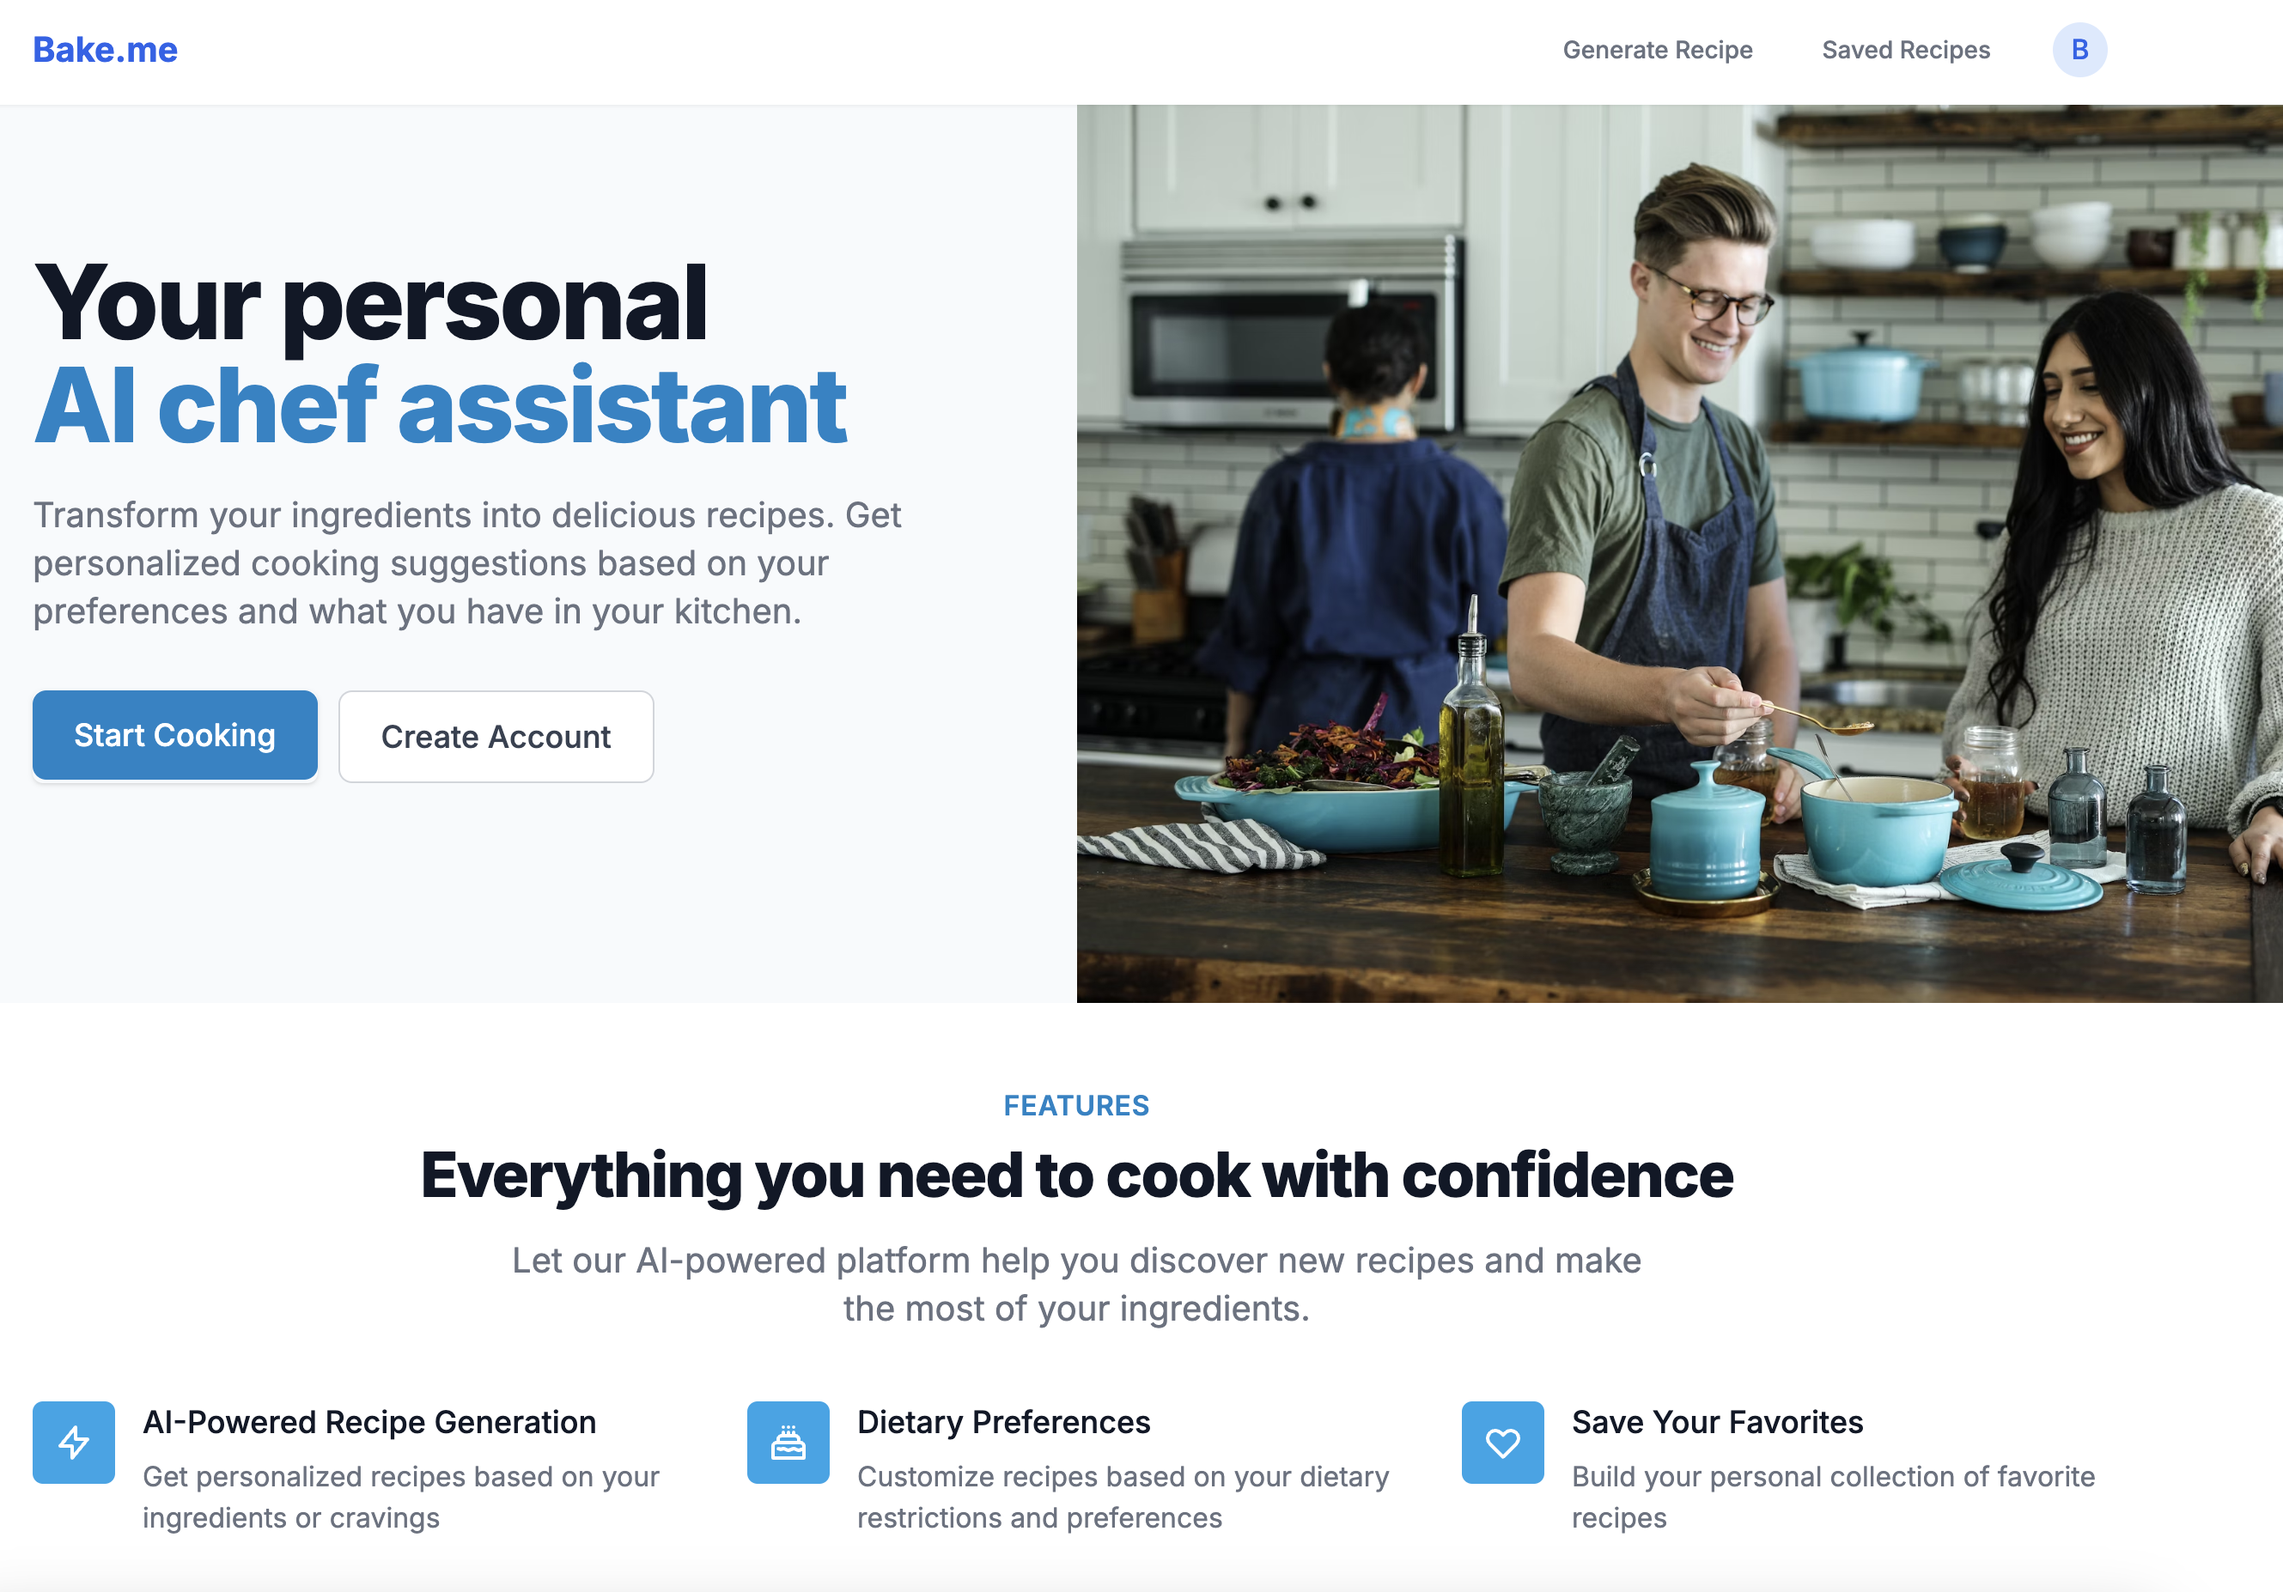
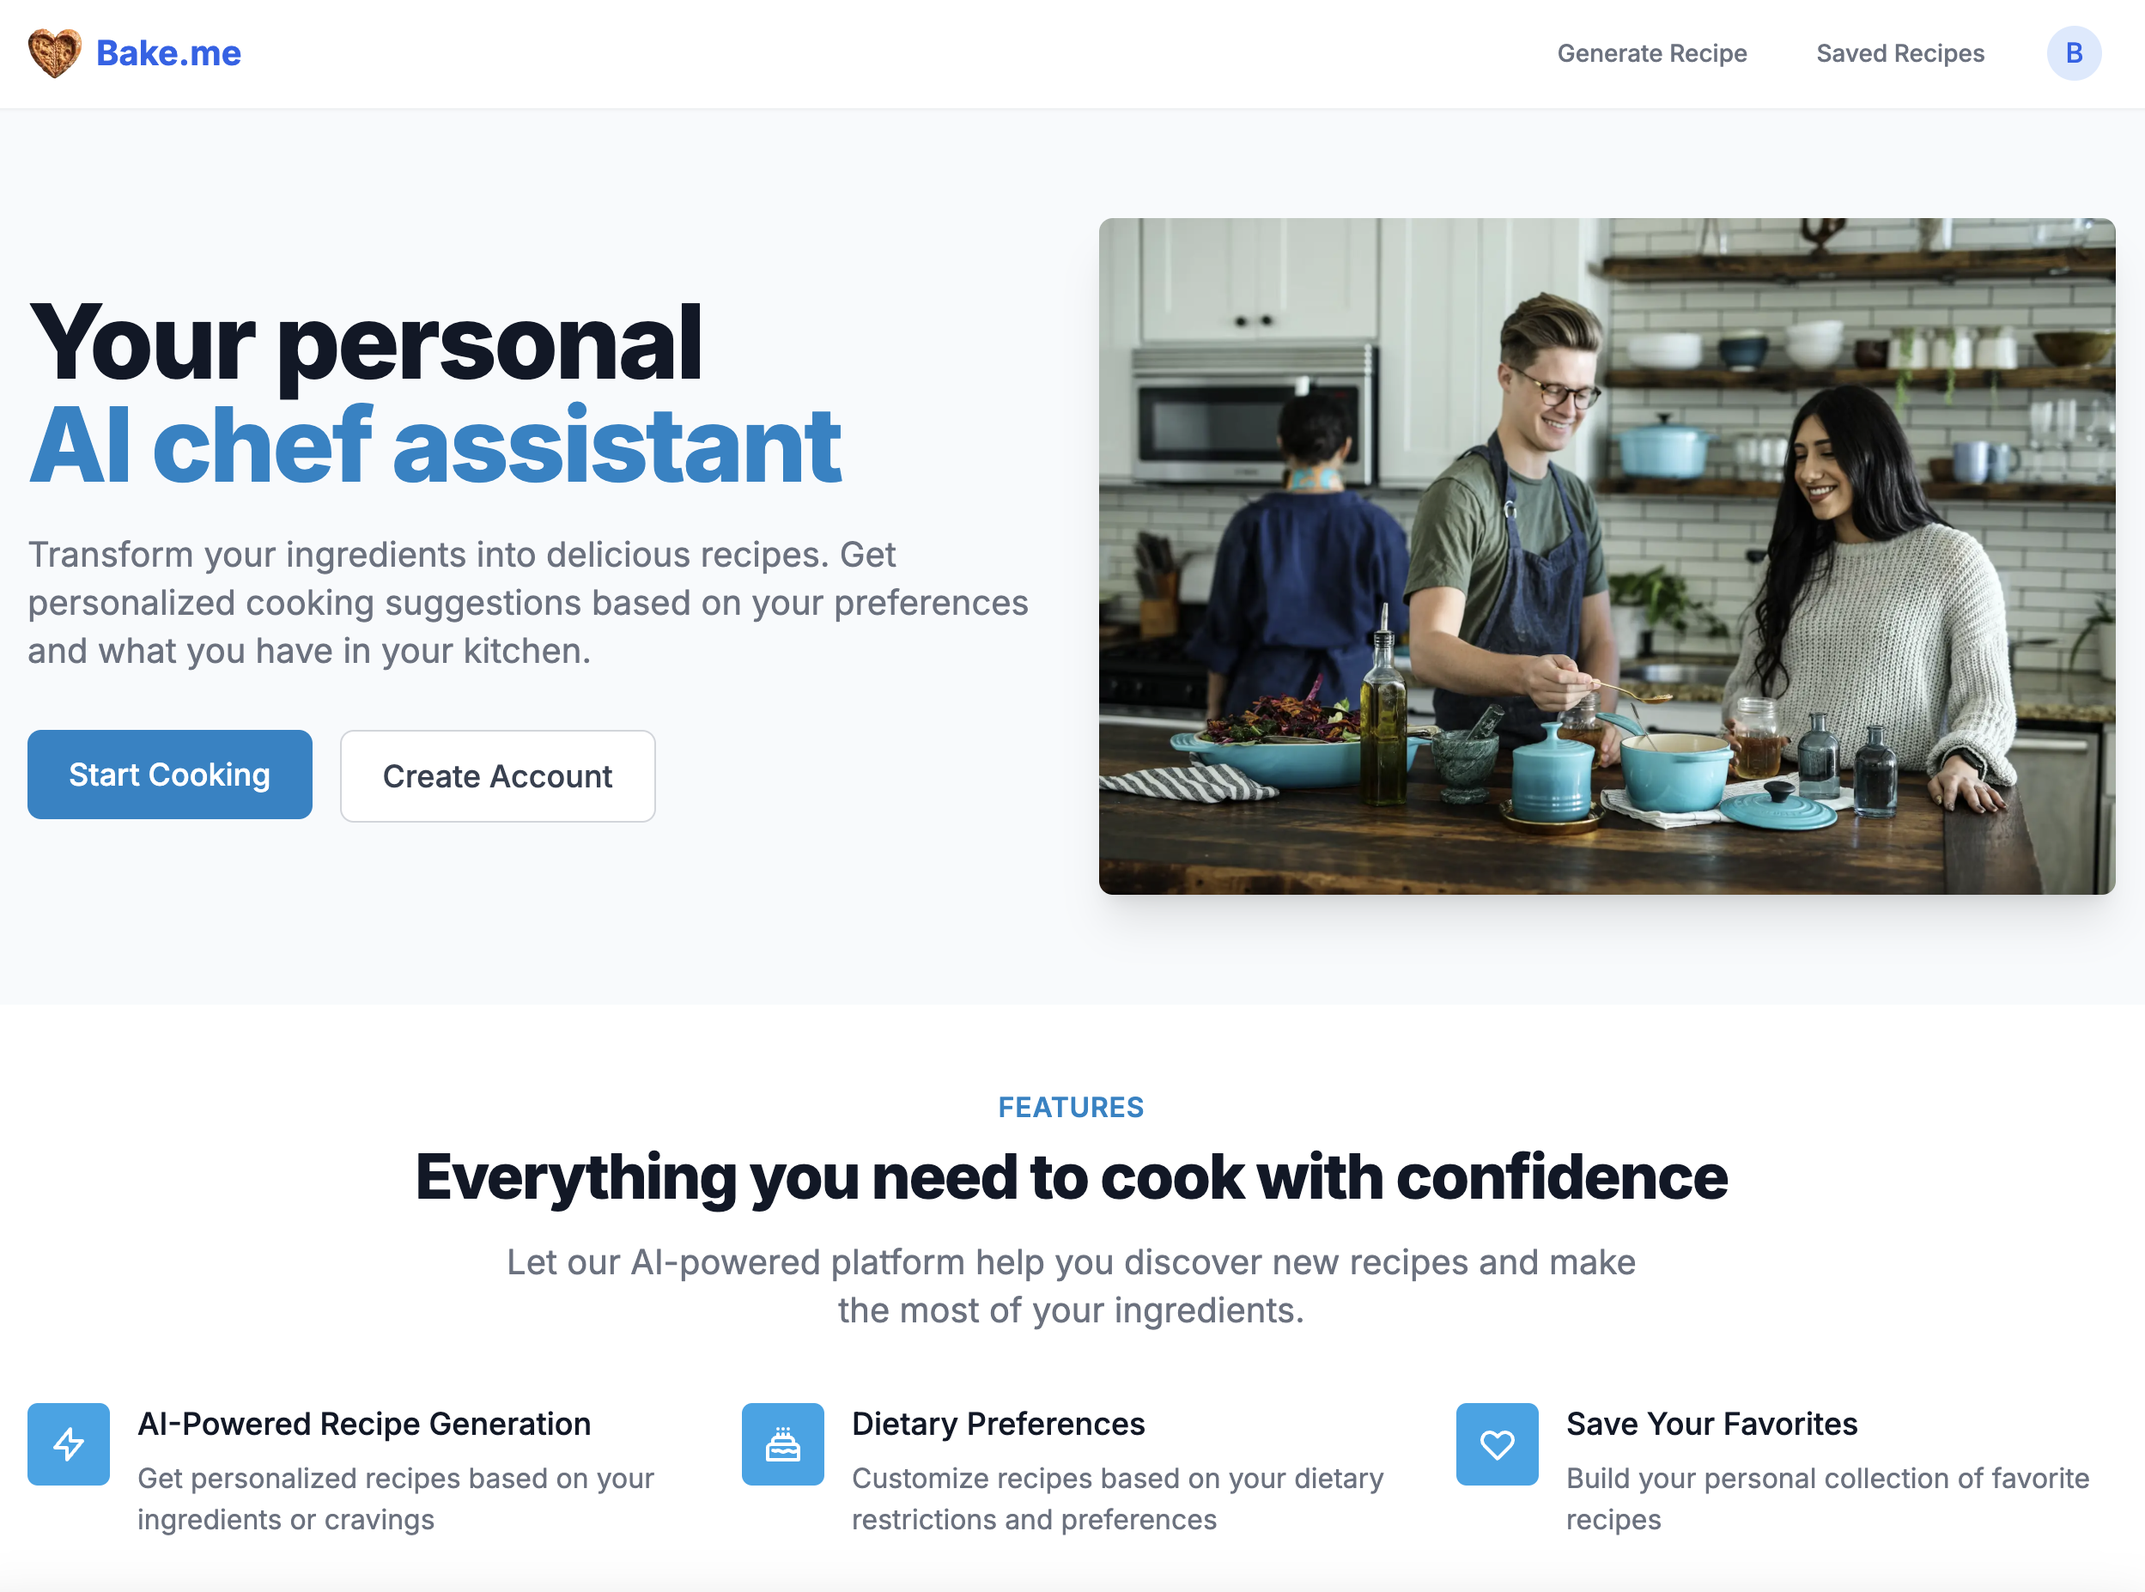
update images

diff --git a/src/app/page.tsx b/src/app/page.tsx
@@ -70,50 +70,49 @@ export default function Home() {
   return (
     <div className="bg-surface-50">
       {/* Hero Section */}
-      <div className="relative overflow-hidden">
-        <div className="max-w-7xl mx-auto">
-          <div className="relative z-10 pb-8 sm:pb-16 md:pb-20 lg:max-w-2xl lg:w-full lg:pb-28 xl:pb-32">
-            <main className="mt-10 mx-auto max-w-7xl px-4 sm:mt-12 sm:px-6 md:mt-16 lg:mt-20 lg:px-8 xl:mt-28">
-              <div className="sm:text-center lg:text-left">
-                <h1 className="text-4xl tracking-tight font-extrabold text-gray-900 sm:text-5xl md:text-6xl">
-                  <span className="block">Your personal</span>
-                  <span className="block text-primary-600">
-                    AI chef assistant
-                  </span>
-                </h1>
-                <p className="mt-3 text-base text-gray-500 sm:mt-5 sm:text-lg sm:max-w-xl sm:mx-auto md:mt-5 md:text-xl lg:mx-0">
-                  Transform your ingredients into delicious recipes. Get
-                  personalized cooking suggestions based on your preferences and
-                  what you have in your kitchen.
-                </p>
-                <div className="mt-5 sm:mt-8 sm:flex sm:justify-center lg:justify-start">
-                  <div className="rounded-md shadow">
-                    <Link href="/generate">
-                      <Button size="lg" className="w-full">
-                        Start Cooking
-                      </Button>
-                    </Link>
-                  </div>
-                  <div className="mt-3 sm:mt-0 sm:ml-3">
-                    <Link href="/signup">
-                      <Button variant="secondary" size="lg" className="w-full">
-                        Create Account
-                      </Button>
-                    </Link>
-                  </div>
-                </div>
+      <div className="max-w-7xl mx-auto px-4 sm:px-6 lg:px-8">
+        <div className="relative py-16">
+          <div className="lg:grid lg:grid-cols-2 lg:gap-8 items-center">
+            <div className="relative z-10">
+              <h1 className="text-4xl tracking-tight font-extrabold text-gray-900 sm:text-5xl md:text-6xl">
+                <span className="block">Your personal</span>
+                <span className="block text-primary-600">
+                  AI chef assistant
+                </span>
+              </h1>
+              <p className="mt-3 text-base text-gray-500 sm:mt-5 sm:text-lg md:mt-5 md:text-xl">
+                Transform your ingredients into delicious recipes. Get
+                personalized cooking suggestions based on your preferences and
+                what you have in your kitchen.
+              </p>
+              <div className="mt-5 sm:mt-8 sm:flex sm:gap-4">
+                <Link href="/generate">
+                  <Button size="lg" className="w-full">
+                    Start Cooking
+                  </Button>
+                </Link>
+                <Link href="/signup">
+                  <Button
+                    variant="secondary"
+                    size="lg"
+                    className="w-full mt-3 sm:mt-0"
+                  >
+                    Create Account
+                  </Button>
+                </Link>
               </div>
-            </main>
+            </div>
+            <div className="mt-12 lg:mt-0">
+              <Image
+                className="rounded-lg shadow-xl"
+                src="/bakemekey.png"
+                alt="BakeMe.ai Kitchen"
+                width={1024}
+                height={768}
+                priority
+              />
+            </div>
           </div>
-        </div>
-        <div className="lg:absolute lg:inset-y-0 lg:right-0 lg:w-1/2">
-          <Image
-            className="h-56 w-full object-cover sm:h-72 md:h-96 lg:w-full lg:h-full"
-            src="https://images.unsplash.com/photo-1556910103-1c02745aae4d?ixlib=rb-4.0.3&ixid=M3wxMjA3fDB8MHxwaG90by1wYWdlfHx8fGVufDB8fHx8fA%3D%3D&auto=format&fit=crop&w=2070&q=80"
-            alt="Cooking ingredients"
-            width={2070}
-            height={1380}
-          />
         </div>
       </div>
 

diff --git a/src/components/Navbar.tsx b/src/components/Navbar.tsx
@@ -5,6 +5,7 @@ import { usePathname } from "next/navigation";
 import { useState } from "react";
 import { useAuth } from "@/lib/auth-context";
 import { auth } from "@/lib/firebase";
+import Image from "next/image";
 
 export default function Navbar() {
   const [isProfileOpen, setIsProfileOpen] = useState(false);
@@ -18,8 +19,15 @@ export default function Navbar() {
       <div className="max-w-7xl mx-auto px-4 sm:px-6 lg:px-8">
         <div className="flex justify-between h-16">
           <div className="flex items-center">
-            <Link href="/" className="text-xl font-bold text-blue-600">
-              Bake.me
+            <Link href="/" className="flex items-center space-x-2">
+              <Image
+                src="/logo.png"
+                alt="BakeMe.ai Logo"
+                width={32}
+                height={32}
+                className="w-8 h-8"
+              />
+              <span className="text-xl font-bold text-blue-600">Bake.me</span>
             </Link>
           </div>
 
